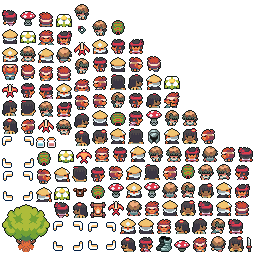
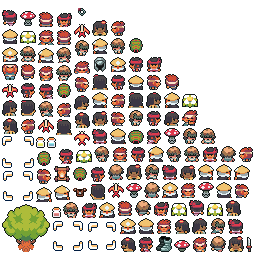
complete terealis flower quest

Changed region(s): [[0.1875, 0.0, 1.0, 0.875]]

diff --git a/core/src/main/kotlin/io/github/masamune/ui/model/ViewModel.kt b/core/src/main/kotlin/io/github/masamune/ui/model/ViewModel.kt
@@ -19,7 +19,6 @@ import io.github.masamune.component.Item
 import io.github.masamune.component.ItemStats
 import io.github.masamune.component.Name
 import io.github.masamune.event.EventListener
-import io.github.masamune.tiledmap.ActionType
 import io.github.masamune.tiledmap.ConsumableType
 import io.github.masamune.tiledmap.ItemType
 import ktx.app.gdxError
@@ -188,13 +187,12 @@ abstract class ViewModel(
     fun Entity.toItemModel(world: World, withConsumeInfo: Boolean = false): ItemModel = with(world) {
         val itemEntity = this@toItemModel
         // and transform items into UI ItemModel objects
-        val (type, cost, category, descriptionKey, actionType, consumableType, amount) = itemEntity[Item]
+        val (type, cost, category, descriptionKey, _, consumableType, amount) = itemEntity[Item]
         val itemName = itemEntity[Name].name
         val region: TextureRegion? = itemEntity.getOrNull(Graphic)?.region
 
         val i18nName = bundle["item.$itemName.name"]
-        val isConsumable = actionType != ActionType.UNDEFINED
-            && (consumableType == ConsumableType.INVENTORY_ONLY || consumableType == ConsumableType.COMBAT_AND_INVENTORY)
+        val isConsumable = consumableType == ConsumableType.INVENTORY_ONLY || consumableType == ConsumableType.COMBAT_AND_INVENTORY
         val i18nDescription = buildString {
             if (withConsumeInfo && isConsumable) {
                 appendLine("{BLINK=#695454FF;#69545455;2.5;0.6}${i18nTxt(I18NKey.ITEM_INFO_CONSUMABLE)}{ENDBLINK}")

diff --git a/core/src/main/kotlin/io/github/masamune/dialog/DialogConfigurator.kt b/core/src/main/kotlin/io/github/masamune/dialog/DialogConfigurator.kt
@@ -24,6 +24,7 @@ class DialogConfigurator(private val bundle: I18NBundle) {
             "smith_00" -> smithDialog(name, world, triggeringEntity)
             "flower_girl_00" -> flowerGirl00Dialog(name, world, triggeringEntity)
             "flower_girl_10" -> flowerGirl10Dialog(name, world, triggeringEntity)
+            "flower_girl_20" -> flowerGirl20Dialog(name, world, triggeringEntity)
             "villageExit" -> villageExitDialog(name)
 
             else -> gdxError("There is no dialog configured for name $name")
@@ -96,6 +97,14 @@ class DialogConfigurator(private val bundle: I18NBundle) {
         val playerName = entityName(world, triggeringEntity)
 
         page(bundle.format("dialog.flower_girl_10.page1", playerName), "flower_girl", bundle["npc.flower_girl.title"]) {
+            option(dialogOptionOk, ActionExit)
+        }
+    }
+
+    private fun flowerGirl20Dialog(name: String, world: World, triggeringEntity: Entity): Dialog = dialog(name) {
+        val playerName = entityName(world, triggeringEntity)
+
+        page(bundle.format("dialog.flower_girl_20.page1", playerName), "flower_girl", bundle["npc.flower_girl.title"]) {
             option(dialogOptionOk, ActionExit)
         }
     }

diff --git a/assets/maps/objects.tsx b/assets/maps/objects.tsx
@@ -1,5 +1,5 @@
 <?xml version="1.0" encoding="UTF-8"?>
-<tileset version="1.10" tiledversion="1.11.0" name="objects" tilewidth="48" tileheight="48" tilecount="17" columns="0">
+<tileset version="1.10" tiledversion="1.11.0" name="objects" tilewidth="48" tileheight="48" tilecount="18" columns="0">
  <grid orientation="orthogonal" width="1" height="1"/>
  <tile id="0" type="PlayerObject">
   <properties>
@@ -297,5 +297,18 @@
    <property name="itemType" propertytype="ItemType" value="TEREALIS_FLOWER"/>
   </properties>
   <image source="objects/terealis_plant.png" width="16" height="16"/>
+ </tile>
+ <tile id="18" type="ItemObject">
+  <properties>
+   <property name="atlas" propertytype="AtlasAsset" value="CHARS_AND_PROPS"/>
+   <property name="consumableType" propertytype="ConsumableType" value="INVENTORY_ONLY"/>
+   <property name="itemType" propertytype="ItemType" value="SMALL_STRENGTH_POTION"/>
+   <property name="stats" type="class" propertytype="Stats">
+    <properties>
+     <property name="strength" type="float" value="3"/>
+    </properties>
+   </property>
+  </properties>
+  <image source="objects/small_strength_potion.png" width="9" height="11"/>
  </tile>
 </tileset>

diff --git a/core/src/main/kotlin/io/github/masamune/trigger/TriggerConfigurator.kt b/core/src/main/kotlin/io/github/masamune/trigger/TriggerConfigurator.kt
@@ -103,8 +103,18 @@ class TriggerConfigurator {
         }
 
     private fun World.flowerGirlTrigger(name: String, triggeringEntity: Entity): TriggerScript {
+        val quest = triggeringEntity[QuestLog].getOrNull<FlowerGirlQuest>()
+        val hasTerealisFlower = hasItem(triggeringEntity, ItemType.TEREALIS_FLOWER)
+
         return when {
-            hasQuest<FlowerGirlQuest>(triggeringEntity) -> trigger(name, this, triggeringEntity) {
+            quest != null && !quest.isCompleted() && hasTerealisFlower -> trigger(name, this, triggeringEntity) {
+                actionDialog("flower_girl_20")
+                actionAddItem(triggeringEntity, ItemType.SMALL_STRENGTH_POTION)
+                actionCompleteQuest(quest)
+                actionHeal(triggeringEntity, healLife = true, healMana = true)
+            }
+
+            quest != null -> trigger(name, this, triggeringEntity) {
                 actionDialog("flower_girl_10")
                 actionHeal(triggeringEntity, healLife = true, healMana = true)
             }

diff --git a/core/src/main/kotlin/io/github/masamune/quest/quest.kt b/core/src/main/kotlin/io/github/masamune/quest/quest.kt
@@ -8,6 +8,8 @@ sealed interface Quest : EventListener {
 
     fun isCompleted(): Boolean
 
+    fun complete()
+
     override fun onEvent(event: Event) = Unit
 }
 
@@ -15,10 +17,18 @@ data class MainQuest(var progress: Int = 0) : Quest {
     override val i18nKey = "quest.main"
 
     override fun isCompleted(): Boolean = progress == 100
+
+    override fun complete() {
+        progress = 100
+    }
 }
 
 data class FlowerGirlQuest(var progress: Int = 0) : Quest {
     override val i18nKey = "quest.flower_girl"
 
     override fun isCompleted(): Boolean = progress == 100
+
+    override fun complete() {
+        progress = 100
+    }
 }

diff --git a/core/src/main/kotlin/io/github/masamune/trigger/triggerActions.kt b/core/src/main/kotlin/io/github/masamune/trigger/triggerActions.kt
@@ -132,6 +132,22 @@ class TriggerActionAddQuest(
     }
 }
 
+class TriggerActionCompleteQuest(
+    private val quest: Quest,
+    private val eventService: EventService,
+) : TriggerAction {
+    override fun World.onUpdate(): Boolean {
+        eventService -= quest
+        quest.complete()
+        log.info { "Completed quest $quest" }
+        return true
+    }
+
+    companion object {
+        private val log = logger<TriggerActionAddQuest>()
+    }
+}
+
 class TriggerActionMoveBack(
     private val entity: Entity,
     private val distance: Float,

diff --git a/core/src/main/kotlin/io/github/masamune/trigger/triggerDsl.kt b/core/src/main/kotlin/io/github/masamune/trigger/triggerDsl.kt
@@ -44,6 +44,11 @@ class TriggerCfg(
         actions += TriggerActionAddQuest(entity, quest, eventService)
     }
 
+    fun actionCompleteQuest(quest: Quest) {
+        val eventService = world.inject<EventService>()
+        actions += TriggerActionCompleteQuest(quest, eventService)
+    }
+
     fun actionMoveBack(entity: Entity, distance: Float, timeInSeconds: Float = 0f, wait: Boolean = true) {
         actions += TriggerActionMoveBack(entity, distance, timeInSeconds, wait)
     }

diff --git a/core/src/main/kotlin/io/github/masamune/tiledmap/ItemType.kt b/core/src/main/kotlin/io/github/masamune/tiledmap/ItemType.kt
@@ -9,6 +9,7 @@ enum class ItemType {
     SCROLL_INFERNO,
     SMALL_HEALTH_POTION,
     SMALL_MANA_POTION,
+    SMALL_STRENGTH_POTION,
     STUDDED_LEATHER,
     TEREALIS_FLOWER,
     UNDEFINED;
